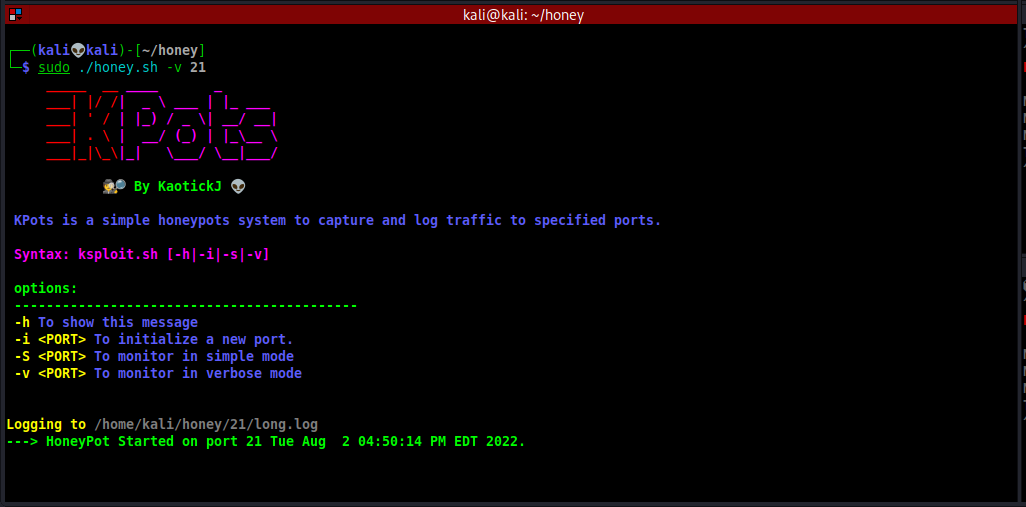
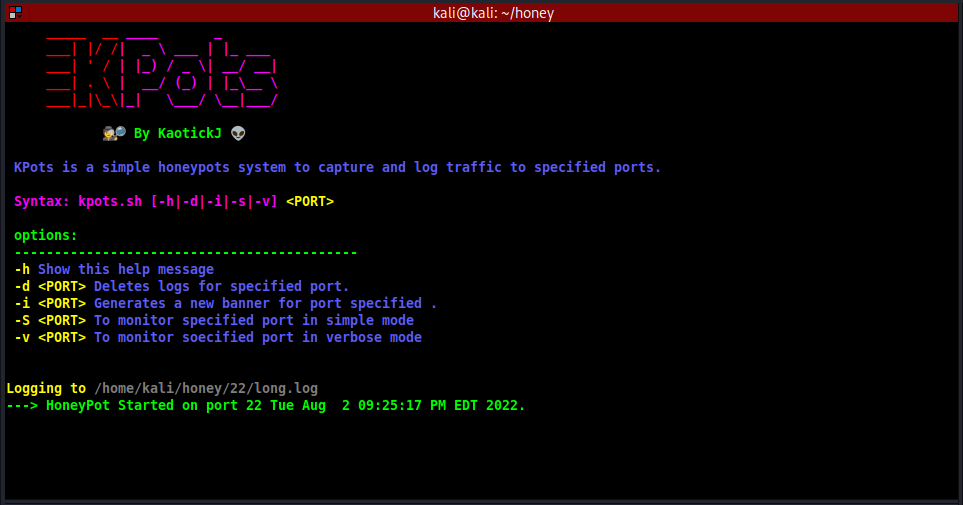
Update img

Changed region(s): [[0.0, 0.0, 1.0, 1.0], [0.3738, 0.7723, 0.5296, 0.8317]]

diff --git a/README.md b/README.md
@@ -5,7 +5,7 @@
 ## 🕵🔎 By KaotickJ 👽 
 KPots is a simple honeypots system to capture and log traffic to specified ports.
 
-Syntax: kpots.sh [-h|-d|-i|-s|-v] \<PORT\>
+Syntax: kpots.sh [-h|-d|-i|-s|-v] <PORT>
 
    options:
    -------------------------------------------
@@ -15,6 +15,8 @@ Syntax: kpots.sh [-h|-d|-i|-s|-v] \<PORT\>
 *   -s <PORT> To monitor specified port in simple mode.
 *   -v <PORT> To monitor soecified port in verbose mode.
 ### Usage
+>  PLEASE NOTE:  K-Pots MUST be run with elevated privileges. Run as root or `sudo ./kpots.sh `
+
 First, you'll need a banner for the port.  K-pots displays the banner text at $DIR/$PORT.txt on connect. 
 To generate a new banner for a port, for example, ssh on port 22  simply run:
 ```sh
@@ -32,5 +34,7 @@ To delete logs for port 22:
 ```sh
 sudo ./kpots.sh -d 22
 ```
-
-
+ ```sh                                  
+🕵🔎 Courtesy of KaotickJ 👽
+```
+![Hack The Box](http://www.hackthebox.eu/badge/image/476578)
